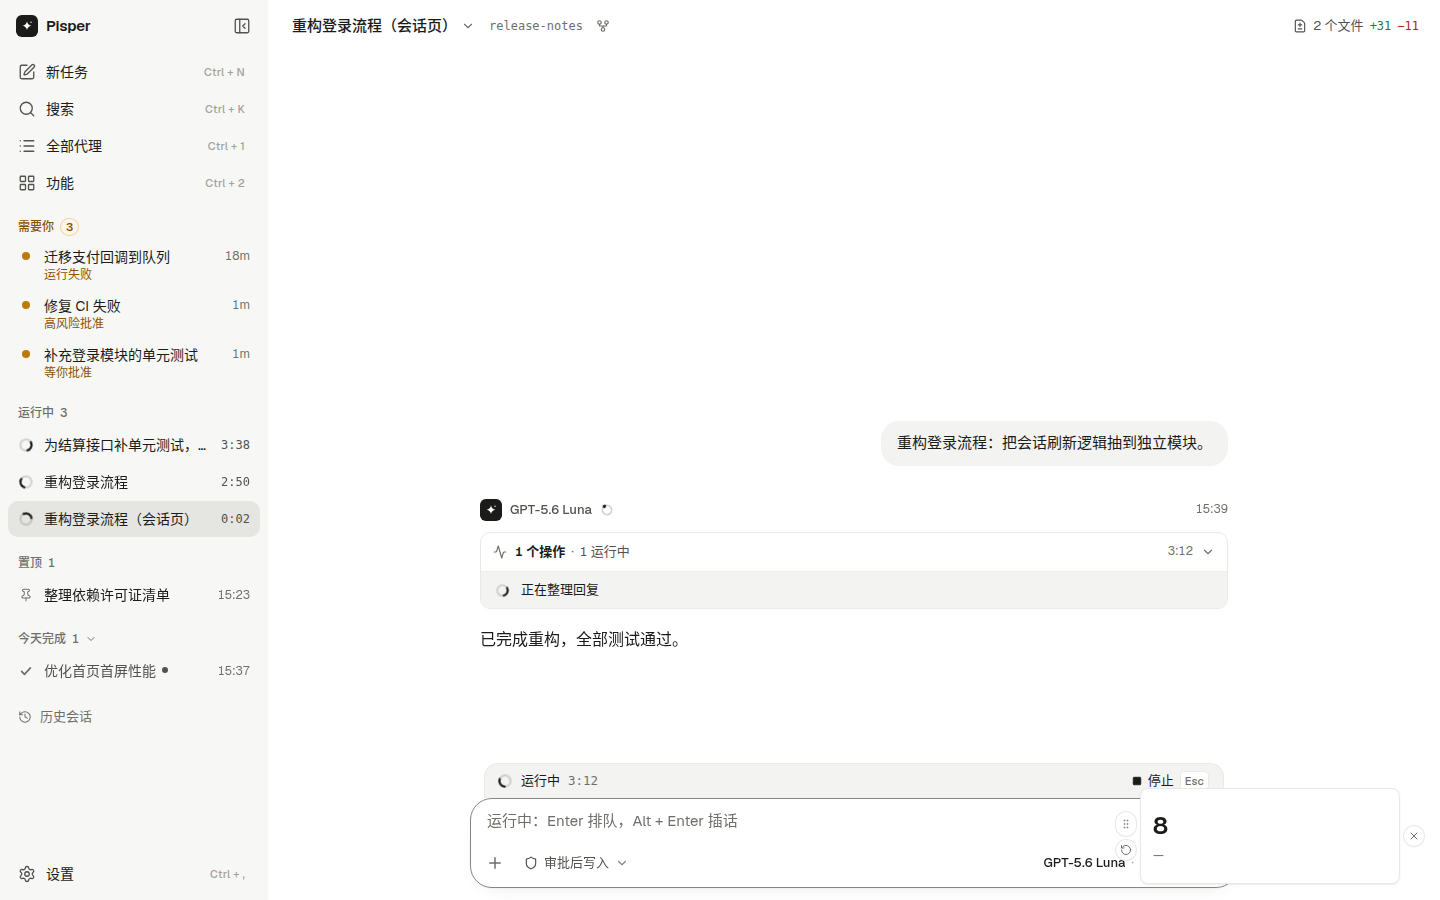
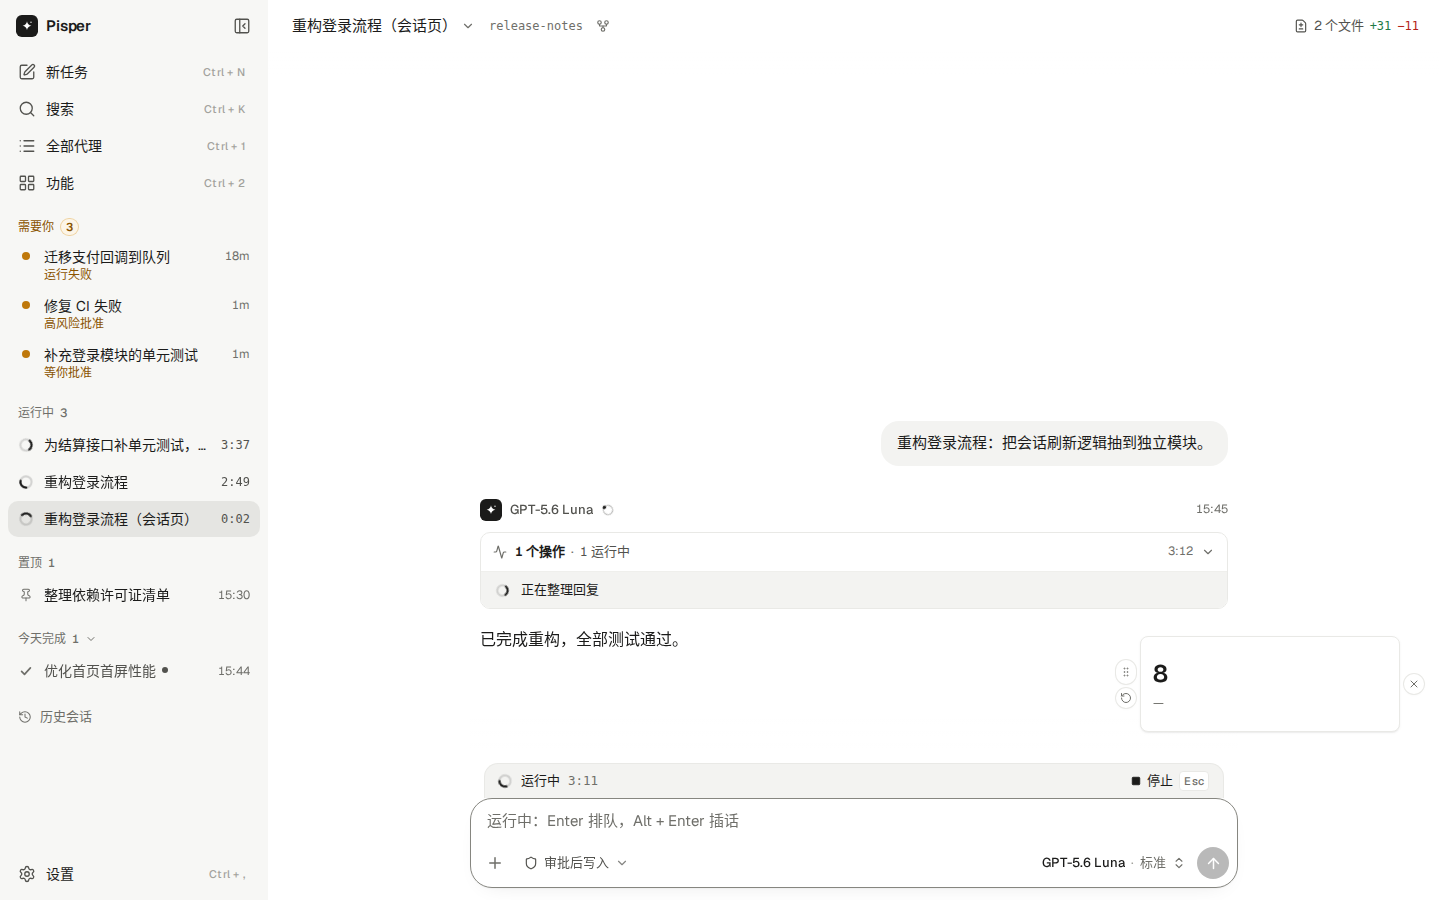
fix(custom-ui): 浮窗默认位置让出输入框区、检查器“+”移出横滚标签行
目的：
- A7 截图核对发现两处遗留：没有保存位置的浮窗贴右下角，在会话页压住输入框右端的模型选择与发送按钮；
  检查器 456 宽、有两枚组件标签时，标签行末尾的“+”被横滚容器挤出可视区，点不到。

范围：
- src/features/custom-ui/floating-placement.ts：默认位置底部让出 160px（运行条 + 输入框约 140px），再向上叠；
  可用高度不足时退到顶部，不出界。已保存的位置不受影响。
- src/features/chat/SessionInspector.tsx：“+”不是标签，从 role=tablist 的横滚容器移到它之外、关闭键左侧；
  方向键切标签时也不再落到“+”上。
- runtime/tests/island-placement.test.mjs：默认位置用例改为让出输入框区后的坐标，新增“底边在输入框区之上”“高度不足退到顶部”。
- scripts/smoke-components-studio.mjs：浮窗默认底边须在视口底 160px 以上；检查器“+”在标签行之外且中心点可命中。
- docs/design：重拍 a7-floating-light、a7-inspector-component-tab-light，对照页“已知问题”两条改为“已修”。

验证：
- node --test island-placement、frontend-boundaries：通过。
- npm run build：通过，入口静态 JS 304.31 kB gzip（预算 307.2 未放宽）。
- npm run test:components:ui：通过（含新增两项断言）。
- 全量检查随 A7 期末一并运行，结果见 A7 期末记录。

风险：
- 浮窗默认位置上移后会盖住一部分可滚动的对话正文或全部代理右栏中下部；可拖开，位置按设备记住。
- 只改前端布局与测试，不涉及 Runtime、协议与存储。

迁移：无。

回滚：git revert 本提交即可；无数据迁移。

diff --git a/docs/design/index.html b/docs/design/index.html
@@ -933,7 +933,7 @@ dialog .bar button { font: inherit; color: #fff; background: rgb(255 255 255 / .
         <figcaption><span class="chip built">已实现 · A7</span>1080 “组件 N”弹层</figcaption></figure>
       <figure><button type="button" data-full="drafts/redesign/claude-sidebar/extra-session-inspector-rail-light.png" aria-label="放大：效果图：会话检查器"><img src="drafts/redesign/claude-sidebar/extra-session-inspector-rail-light.png" alt="效果图：会话检查器" loading="lazy"></button>
         <figcaption><span class="chip draft">效果图</span>会话检查器</figcaption></figure>
-      <figure><button type="button" data-full="built/a7-inspector-component-tab-light.png" aria-label="放大：实现：会话检查器：固定标签（改动 / 终端 / 文件 / 预览）后是组件标签“发布倒计时”“便签”，选中的组件拿到检查器宽度；两枚组件标签时标签行末的“+”被挤出可视区（已知问题，见下）"><img src="built/a7-inspector-component-tab-light.png" alt="实现：会话检查器：固定标签（改动 / 终端 / 文件 / 预览）后是组件标签“发布倒计时”“便签”，选中的组件拿到检查器宽度；两枚组件标签时标签行末的“+”被挤出可视区（已知问题，见下）" loading="lazy"></button>
+      <figure><button type="button" data-full="built/a7-inspector-component-tab-light.png" aria-label="放大：实现：会话检查器：固定标签（改动 / 终端 / 文件 / 预览）后是组件标签“发布倒计时”“便签”，选中的组件拿到检查器宽度；“+”移出了可横滚的标签行，组件标签再多也完整可见"><img src="built/a7-inspector-component-tab-light.png" alt="实现：会话检查器：固定标签（改动 / 终端 / 文件 / 预览）后是组件标签“发布倒计时”“便签”，选中的组件拿到检查器宽度；“+”移出了可横滚的标签行，组件标签再多也完整可见" loading="lazy"></button>
         <figcaption><span class="chip built">已实现 · A7</span>检查器组件标签</figcaption></figure>
       <figure><button type="button" data-full="drafts/redesign/claude-sidebar/extra-features-light.png" aria-label="放大：效果图：功能索引"><img src="drafts/redesign/claude-sidebar/extra-features-light.png" alt="效果图：功能索引" loading="lazy"></button>
         <figcaption><span class="chip draft">效果图</span>功能索引</figcaption></figure>
@@ -941,7 +941,7 @@ dialog .bar button { font: inherit; color: #fff; background: rgb(255 255 255 / .
         <figcaption><span class="chip built">已实现 · A7</span>功能 › 我的组件</figcaption></figure>
       <figure><button type="button" data-full="built/a7-feature-page-component-light.png" aria-label="放大：实现：功能 › 我的组件整页：面包屑“功能 / 我的组件”，工具条只有组件名与“管理组件”，组件铺满主区"><img src="built/a7-feature-page-component-light.png" alt="实现：功能 › 我的组件整页：面包屑“功能 / 我的组件”，工具条只有组件名与“管理组件”，组件铺满主区" loading="lazy"></button>
         <figcaption><span class="chip built">已实现 · A7</span>功能页整页</figcaption></figure>
-      <figure><button type="button" data-full="built/a7-floating-light.png" aria-label="放大：实现：浮窗：今日用量 260×96 没有保存位置时停在右下角；在会话页它压住了输入框右端的模型选择与发送按钮（已知问题，见下；可拖开，位置按设备记住）"><img src="built/a7-floating-light.png" alt="实现：浮窗：今日用量 260×96 没有保存位置时停在右下角；在会话页它压住了输入框右端的模型选择与发送按钮（已知问题，见下；可拖开，位置按设备记住）" loading="lazy"></button>
+      <figure><button type="button" data-full="built/a7-floating-light.png" aria-label="放大：实现：浮窗：今日用量 260×96 没有保存位置时停在右下角、底边让出输入框区（160px），不再压住模型选择与发送按钮；可拖开，位置按设备记住"><img src="built/a7-floating-light.png" alt="实现：浮窗：今日用量 260×96 没有保存位置时停在右下角、底边让出输入框区（160px），不再压住模型选择与发送按钮；可拖开，位置按设备记住" loading="lazy"></button>
         <figcaption><span class="chip built">已实现 · A7</span>浮窗（默认右下角）</figcaption></figure>
     </div>
     <h3>手机（390）</h3>
@@ -977,8 +977,8 @@ dialog .bar button { font: inherit; color: #fff; background: rgb(255 255 255 / .
     </ul>
     <h3>已知问题（截图时发现）</h3>
     <ul class="notes">
-      <li>浮窗默认位置（右下角）在会话页压住输入框的模型选择与发送按钮，在放了组件的全部代理压住右栏底部；可拖开，拖过的位置按设备记住。默认位置怎么避开输入区留给下一批（组件内容区以外没有通用的“避让区”）。</li>
-      <li>检查器 456 宽、两枚组件标签时，标签行末尾的“+”被挤到可视区外（只露出边缘），要先收起检查器里的固定标签或拖宽检查器才点得到。</li>
+      <li>已修：浮窗默认位置（右下角）原来贴底，在会话页压住输入框的模型选择与发送按钮；现在底部让出 160px 输入框区再向上叠。代价是会盖住一部分对话正文（可滚动）或全部代理右栏的中下部，可拖开，位置按设备记住。</li>
+      <li>已修：检查器 456 宽、两枚组件标签时，标签行末尾的“+”曾被挤到可视区外；“+”不是标签，现已移出可横滚的标签行，固定在关闭键左侧，方向键也不再落到它上面。</li>
       <li>已修：SDK 文档与内置模板写的 <code>var(--color-content-muted)</code> 等是 Tailwind 的编译期别名，运行时不存在，组件里的辅助文字退回了正文颜色；改为运行时变量 <code>--text-muted</code> 等，并加了契约测试（截图已是修复后的效果）。</li>
     </ul>
     <h3>替你做的决定（待你确认，完整列表见 decisions.md）</h3>

diff --git a/src/features/chat/SessionInspector.tsx b/src/features/chat/SessionInspector.tsx
@@ -470,48 +470,49 @@ export function SessionInspector({
               </button>
             )
           })}
-          {!sheet && (
-            <Popover open={addOpen} onOpenChange={setAddOpen}>
-              <PopoverTrigger asChild>
+        </div>
+        {/* “+”不是标签：放在可横滚的标签行之外，组件标签多了也不会被挤出可视区，方向键也不会落到它上面。 */}
+        {!sheet && (
+          <Popover open={addOpen} onOpenChange={setAddOpen}>
+            <PopoverTrigger asChild>
+              <Button
+                type="button"
+                variant="ghost"
+                size="icon-sm"
+                className="flex-none"
+                aria-label={t('board:inspector.add')}
+                title={t('board:inspector.add')}
+                data-inspector-component-add
+              >
+                <Plus aria-hidden="true" />
+              </Button>
+            </PopoverTrigger>
+            <PopoverContent align="end" className="w-64 text-xs">
+              {componentTabs?.addMenu ? (
+                componentTabs.addMenu({
+                  cwd,
+                  onAdded: (id) => {
+                    setComponentTab(id)
+                    setAddOpen(false)
+                  },
+                })
+              ) : (
+                <p className="text-content-secondary">{t('board:inspector.addHint')}</p>
+              )}
+              {onOpenComponents && (
                 <Button
                   type="button"
-                  variant="ghost"
-                  size="icon-sm"
-                  className="flex-none"
-                  aria-label={t('board:inspector.add')}
-                  title={t('board:inspector.add')}
-                  data-inspector-component-add
+                  variant="secondary"
+                  size="sm"
+                  className="self-start"
+                  onClick={onOpenComponents}
                 >
-                  <Plus aria-hidden="true" />
+                  {t('board:inspector.openComponents')}
                 </Button>
-              </PopoverTrigger>
-              <PopoverContent align="end" className="w-64 text-xs">
-                {componentTabs?.addMenu ? (
-                  componentTabs.addMenu({
-                    cwd,
-                    onAdded: (id) => {
-                      setComponentTab(id)
-                      setAddOpen(false)
-                    },
-                  })
-                ) : (
-                  <p className="text-content-secondary">{t('board:inspector.addHint')}</p>
-                )}
-                {onOpenComponents && (
-                  <Button
-                    type="button"
-                    variant="secondary"
-                    size="sm"
-                    className="self-start"
-                    onClick={onOpenComponents}
-                  >
-                    {t('board:inspector.openComponents')}
-                  </Button>
-                )}
-              </PopoverContent>
-            </Popover>
-          )}
-        </div>
+              )}
+            </PopoverContent>
+          </Popover>
+        )}
         <Button
           type="button"
           variant="ghost"

diff --git a/src/features/custom-ui/floating-placement.ts b/src/features/custom-ui/floating-placement.ts
@@ -10,8 +10,11 @@ const extent = (value: number) => (Number.isFinite(value) ? Math.max(0, value) :
 // 没有保存位置的浮窗停在可用区的右下角、依次向上叠，一列放不下再向左错开一列（评审返修）：
 // 页头、全部代理第一屏的“需要你”、工作台页头与提示词卡片都在上方，右下角最少挡主要内容（规格 6.1）。
 // 原来沿用专注岛的“页头中线下方居中”，组件浮窗比岛大得多，默认就压在需要你的第一行上。
+// 底部再让出输入框区（运行条 + 输入框约 140px）：贴底时正好压住发送键与模型选择（A7 截图核对时发现）。
+// 盖住可滚动的对话正文比盖住操作控件代价小；可用高度不足时退到顶部，不出界。
 const FLOATING_INSET = 8
 const FLOATING_GAP = 12
+const FLOATING_BOTTOM_RESERVE = 160
 
 export function defaultFloatingPlacement(
   bounds: FloatingSize,
@@ -20,14 +23,15 @@ export function defaultFloatingPlacement(
 ): FloatingPlacement {
   const width = Math.max(0, extent(bounds.width) - extent(widget.width))
   const height = Math.max(0, extent(bounds.height) - extent(widget.height))
-  const usable = Math.max(0, height - 2 * FLOATING_INSET)
+  const base = Math.max(0, height - FLOATING_BOTTOM_RESERVE)
+  const usable = Math.max(0, base - FLOATING_INSET)
   const stride = extent(widget.height) + FLOATING_GAP
   const perColumn = stride ? Math.floor(usable / stride) + 1 : 1
   const index = Math.max(0, Math.floor(stackIndex))
   const column = Math.floor(index / perColumn)
   const row = index % perColumn
   const x = width - FLOATING_INSET - column * (extent(widget.width) + FLOATING_GAP)
-  const y = height - FLOATING_INSET - row * stride
+  const y = base - row * stride
   return {
     x: width ? clamp(x / width) : 1,
     y: height ? clamp(y / height) : 1,
